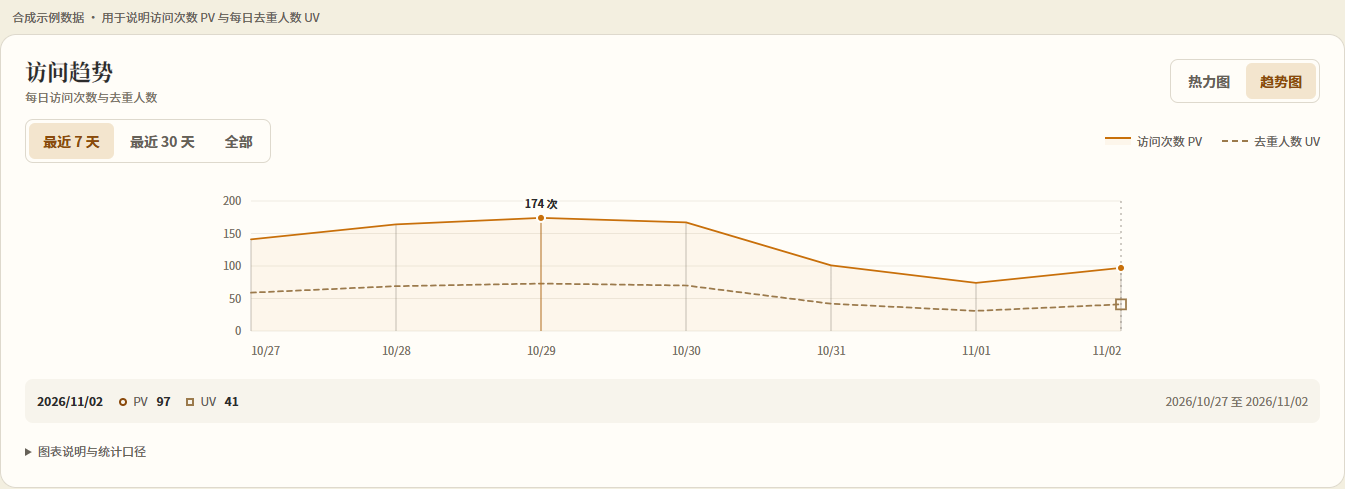
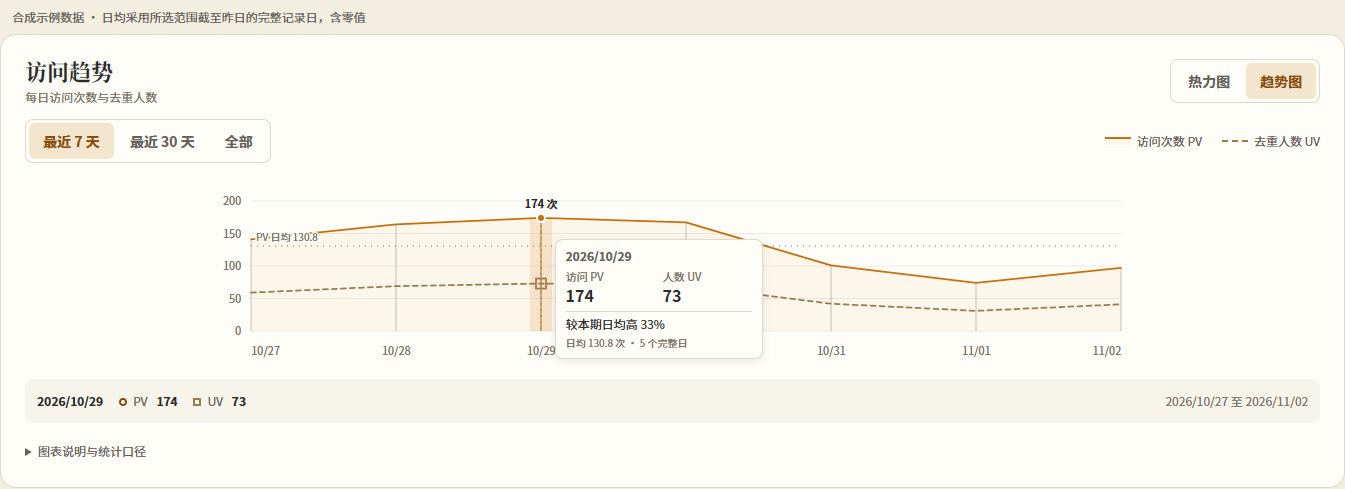
Show per-day visit comparisons and soften the calendar accents

diff --git a/src/app/admin/analytics/VisitTrend.tsx b/src/app/admin/analytics/VisitTrend.tsx
@@ -12,6 +12,7 @@ type Range = VisitTrend["range"];
 type LoadState = { phase: "loading" } | { phase: "ready"; report: VisitTrend } | { phase: "error"; message: string };
 const numberFormat = new Intl.NumberFormat("zh-CN");
 const compactNumber = new Intl.NumberFormat("zh-CN", { notation: "compact", maximumFractionDigits: 1 });
+const averageNumber = new Intl.NumberFormat("zh-CN", { maximumFractionDigits: 1 });
 const DAY = 86_400_000;
 const STATUSES = new Set(["available", "partial", "not_collected", "unavailable"]);
 const validCount = (value: unknown) => value === null || typeof value === "number" && Number.isSafeInteger(value) && value >= 0;
@@ -54,6 +55,23 @@ export function describeTrendValue(value: number | null, status: TrendDay["pvSta
   if (status === "unavailable") return "暂时无法读取";
   if (value === null || status === "not_collected") return "暂无完整记录";
   return numberFormat.format(value) + (status === "partial" ? "（部分记录）" : "");
+}
+
+export function trendDailyAverage(report: VisitTrend) {
+  const days = report.days.filter(day => day.date < report.endDate && day.pvStatus === "available" && day.pv !== null);
+  return { value: days.length ? days.reduce((sum, day) => sum + (day.pv ?? 0), 0) / days.length : null, samples: days.length };
+}
+
+export function compareTrendDay(day: TrendDay, endDate: string, average: number | null) {
+  const current = day.date === endDate ? "截至当前，" : "";
+  if (day.pv === null || day.pvStatus === "unavailable" || day.pvStatus === "not_collected") return "PV 暂无完整记录，暂不比较";
+  if (day.pvStatus === "partial" && day.date !== endDate) return "部分记录，暂不比较日均";
+  if (average === null) return current + "暂无完整历史日作为日均基准";
+  if (day.pv === average) return current + "与本期日均持平";
+  if (average === 0) return current + "高于本期日均 " + numberFormat.format(day.pv) + " 次（日均为 0）";
+  const difference = (day.pv - average) / average * 100;
+  const formatted = averageNumber.format(Math.abs(difference));
+  return current + (formatted === "0" ? "接近本期日均" : `较本期日均${difference > 0 ? "高" : "低"} ${formatted}%`);
 }
 
 function TrendRequest({ range, retry }: { range: Range; retry: () => void }) {
@@ -100,6 +118,9 @@ export function VisitLineChart({ report, retry }: { report: VisitTrend; retry?: 
   const frame = useRef<HTMLDivElement>(null);
   const [width, setWidth] = useState(800);
   const [selected, setSelected] = useState(report.days.length - 1);
+  const [inspecting, setInspecting] = useState(false);
+  const tooltip = useRef<HTMLDivElement>(null);
+  const [tooltipSize, setTooltipSize] = useState({ width: 208, height: 104 });
   const descriptionId = useId();
   useLayoutEffect(() => {
     const element = frame.current;
@@ -114,6 +135,26 @@ export function VisitLineChart({ report, retry }: { report: VisitTrend; retry?: 
     observer.observe(element);
     return () => observer.disconnect();
   }, []);
+  useLayoutEffect(() => {
+    if (!inspecting || !tooltip.current) return;
+    const bounds = tooltip.current.getBoundingClientRect();
+    if (bounds.width && bounds.height) setTooltipSize({ width: bounds.width, height: bounds.height });
+  }, [inspecting, selected, width]);
+  useEffect(() => {
+    if (!inspecting) return;
+    const dismissOutside = (event: globalThis.PointerEvent) => {
+      if (frame.current && !frame.current.contains(event.target as Node)) setInspecting(false);
+    };
+    const dismissEscape = (event: globalThis.KeyboardEvent) => {
+      if (event.key === "Escape" && !event.defaultPrevented) { event.preventDefault(); setInspecting(false); }
+    };
+    document.addEventListener("pointerdown", dismissOutside);
+    document.addEventListener("keydown", dismissEscape);
+    return () => {
+      document.removeEventListener("pointerdown", dismissOutside);
+      document.removeEventListener("keydown", dismissEscape);
+    };
+  }, [inspecting]);
   if (!report.days.length) return <>
     <div className={frameStyles.plot} data-visit-plot><p className={styles.state}>尚无访问采集记录，启用采集后可查看趋势。</p></div>
     <div className={frameStyles.readout} data-visit-readout><span className={frameStyles.readoutMeta}>每日 PV 与 UV · 北京时间</span></div>
@@ -133,17 +174,18 @@ export function VisitLineChart({ report, retry }: { report: VisitTrend; retry?: 
   const y = (value: number) => bottom - value / ceiling * (bottom - top);
   const day = report.days[Math.max(0, Math.min(selected, report.days.length - 1))];
   const currentIndex = report.days.indexOf(day);
-  const selectFromPointer = (event: PointerEvent<SVGSVGElement>) => {
+  const pointerIndex = (event: PointerEvent<SVGSVGElement>) => {
     const bounds = event.currentTarget.getBoundingClientRect();
     const position = (event.clientX - bounds.left) / bounds.width * width;
-    setSelected(Math.max(0, Math.min(report.days.length - 1, Math.round((position - left) / chartWidth * (report.days.length - 1)))));
+    return Math.max(0, Math.min(report.days.length - 1, Math.round((position - left) / chartWidth * (report.days.length - 1))));
   };
   const move = (event: KeyboardEvent<HTMLDivElement>) => {
+    if (event.key === "Escape") { event.preventDefault(); setInspecting(false); return; }
     const offsets: Record<string, number> = { ArrowLeft: -1, ArrowRight: 1, ArrowUp: -7, ArrowDown: 7 };
     if (event.key === "Home" || event.key === "End") {
-      event.preventDefault(); setSelected(event.key === "Home" ? 0 : report.days.length - 1);
+      event.preventDefault(); setSelected(event.key === "Home" ? 0 : report.days.length - 1); setInspecting(true);
     } else if (Object.hasOwn(offsets, event.key)) {
-      event.preventDefault(); setSelected(value => Math.max(0, Math.min(report.days.length - 1, value + offsets[event.key])));
+      event.preventDefault(); setSelected(value => Math.max(0, Math.min(report.days.length - 1, value + offsets[event.key]))); setInspecting(true);
     }
   };
   const tickCount = width < 480 ? 3 : report.days.length === 7 ? 7 : 5;
@@ -155,14 +197,31 @@ export function VisitLineChart({ report, retry }: { report: VisitTrend; retry?: 
   const peak = pvPoints.reduce<(typeof pvPoints)[number] | null>((best, point) => !best || point.value > best.value ? point : best, null);
   const showPeak = peak && peak.value > 0 && pvPoints.some(point => point.value < peak.value);
   const stemStep = Math.max(1, Math.ceil(report.days.length / Math.max(1, Math.floor(chartWidth / 9))));
+  const average = trendDailyAverage(report);
+  const comparison = compareTrendDay(day, report.endDate, average.value);
+  const dayHasPv = day.pv !== null && !["unavailable", "not_collected"].includes(day.pvStatus);
+  const barWidth = Math.max(.75, Math.min(22, chartWidth / Math.max(1, report.days.length - 1) * .65));
+  const tooltipWidth = Math.min(tooltipSize.width, width - 16);
+  const tooltipHeight = Math.min(tooltipSize.height, height - 16);
+  const side = x(currentIndex) < width / 2 ? x(currentIndex) + 14 : x(currentIndex) - tooltipWidth - 14;
+  const tooltipPosition = {
+    left: Math.max(8, Math.min(width - tooltipWidth - 8, side)),
+    top: height - tooltipHeight - 8,
+  };
   return <>
     <div className={frameStyles.plot} data-visit-plot>
     <div ref={frame} className={styles.chartFrame} role="group" tabIndex={0}
       aria-label="每日 PV 与 UV 趋势图，左右方向键逐日查看，Home 和 End 跳到首尾"
-      aria-describedby={descriptionId} onKeyDown={move}>
+      aria-describedby={descriptionId} onKeyDown={move} onFocus={() => setInspecting(true)}
+      onBlur={event => { if (!event.currentTarget.contains(event.relatedTarget)) setInspecting(false); }}
+      onPointerLeave={event => { if (event.pointerType !== "touch") setInspecting(false); }}>
       <svg viewBox={"0 0 " + width + " " + height} width="100%" height={height} role="img" aria-label="PV 浅琥珀面积与实线圆点、UV 虚线方点的每日访问趋势"
-        onPointerMove={event => { if (event.pointerType !== "touch" || event.buttons) selectFromPointer(event); }}
-        onPointerDown={event => { frame.current?.focus({ preventScroll: true }); selectFromPointer(event); }}>
+        onPointerMove={event => { if (event.pointerType !== "touch" || event.buttons) { setSelected(pointerIndex(event)); setInspecting(true); } }}
+        onPointerDown={event => {
+          const index = pointerIndex(event);
+          const open = event.pointerType === "touch" && index === currentIndex ? !inspecting : true;
+          frame.current?.focus({ preventScroll: true }); setSelected(index); setInspecting(open);
+        }}>
         {Array.from({ length: intervals + 1 }, (_, index) => {
           const value = tickStep * index;
           const axisY = y(value);
@@ -173,6 +232,8 @@ export function VisitLineChart({ report, retry }: { report: VisitTrend; retry?: 
         })}
         {ticks.map(index => <text key={index} x={x(index)} y={height - 12} className={styles.axisLabel}
           textAnchor={index === 0 ? "start" : index === report.days.length - 1 ? "end" : "middle"}>{(showYear ? report.days[index].date : report.days[index].date.slice(5)).replaceAll("-", "/")}</text>)}
+        {inspecting && dayHasPv && day.pv !== null && day.pv > 0 && <rect data-mark="pv-active-bar" className={styles.activeBar}
+          x={x(currentIndex) - barWidth / 2} y={y(day.pv)} width={barWidth} height={bottom - y(day.pv)} />}
         <g className={styles.pvArea} aria-hidden="true">
           {series[0].segments.filter(segment => segment.length > 1).map((segment, index) => <path key={index} data-mark="pv-area"
             d={`M${x(segment[0].index)},${bottom} L${segment.map(point => `${x(point.index)},${y(point.value)}`).join(" L")} L${x(segment[segment.length - 1].index)},${bottom} Z`} />)}
@@ -186,6 +247,10 @@ export function VisitLineChart({ report, retry }: { report: VisitTrend; retry?: 
               : <rect key={index} x={x(segment[0].index) - 3} y={y(segment[0].value) - 3} width={6} height={6} />
             : <path key={index} data-mark={metric + "-line"} d={segment.map((point, pointIndex) => (pointIndex ? "L" : "M") + x(point.index).toFixed(2) + "," + y(point.value).toFixed(2)).join(" ")} />)}
         </g>)}
+        {average.value !== null && <g className={styles.average} data-mark="pv-average" aria-hidden="true">
+          <line x1={left} x2={width - right} y1={y(average.value)} y2={y(average.value)} />
+          <text x={left + 5} y={y(average.value) + (showPeak && x(peak.index) < left + 100 && Math.abs(y(peak.value) - y(average.value)) < 22 ? 13 : -5)}>PV 日均 {averageNumber.format(average.value)}</text>
+        </g>}
         {showPeak && <g className={styles.peak} data-mark="pv-peak">
           <title>{`${report.days[peak.index].date} · 已记录最高 ${numberFormat.format(peak.value)} 次访问`}</title>
           <line x1={x(peak.index)} x2={x(peak.index)} y1={y(peak.value)} y2={bottom} />
@@ -197,6 +262,24 @@ export function VisitLineChart({ report, retry }: { report: VisitTrend; retry?: 
         {day.pv !== null && !["unavailable", "not_collected"].includes(day.pvStatus) && <circle className={styles.pvPoint} cx={x(currentIndex)} cy={y(day.pv)} r={4} />}
         {day.uv !== null && !["unavailable", "not_collected"].includes(day.uvStatus) && <rect className={styles.uvPoint} x={x(currentIndex) - 5} y={y(day.uv) - 5} width={10} height={10} />}
       </svg>
+      {inspecting && <div ref={tooltip} data-visit-tooltip
+        data-wide-values={numberFormat.format(Math.max(day.pv ?? 0, day.uv ?? 0)).length > 12 || undefined}
+        className={styles.tooltip} style={tooltipPosition} aria-hidden="true">
+        <strong className={styles.tooltipHeading}>{day.date.replaceAll("-", "/")}</strong>
+        <dl className={styles.tooltipValues}>
+          {(["pv", "uv"] as const).map(metric => {
+            const value = day[metric];
+            const status = metric === "pv" ? day.pvStatus : day.uvStatus;
+            const known = value !== null && (status === "available" || status === "partial");
+            return <div key={metric}>
+              <dt>{metric === "pv" ? "访问 PV" : "人数 UV"}</dt>
+              <dd>{known ? <><b>{numberFormat.format(value)}</b>{status === "partial" && <span>部分记录</span>}</> : describeTrendValue(value, status)}</dd>
+            </div>;
+          })}
+        </dl>
+        <p>{comparison}</p>
+        {average.value !== null && <small>日均 {averageNumber.format(average.value)} 次 · {average.samples} 个完整日</small>}
+      </div>}
     </div>
     </div>
     <div id={descriptionId} className={frameStyles.readout} data-visit-readout aria-live="polite" aria-atomic="true">
@@ -208,7 +291,7 @@ export function VisitLineChart({ report, retry }: { report: VisitTrend; retry?: 
         {retry && report.days.some(item => item.pvStatus === "unavailable" || item.uvStatus === "unavailable") &&
           <button type="button" className={styles.retry} onClick={retry} aria-label="重新加载趋势" title="部分日期无法读取，重新加载趋势">重试</button>}
       </span>
-      <span className={styles.visuallyHidden}>悬停或点按查看日期，键盘方向键可逐日切换。{missing && " 缺少完整记录的日期留空。"}{partial && " 部分记录已在日期明细中标注。"}</span>
+      <span className={styles.visuallyHidden}>{comparison}。{average.value !== null && `本期日均 ${averageNumber.format(average.value)} 次，依据 ${average.samples} 个完整记录日，排除今天和部分记录。`}悬停或点按查看日期，键盘方向键可逐日切换，Escape 关闭浮层。{missing && " 缺少完整记录的日期留空。"}{partial && " 部分记录已在日期明细中标注。"}</span>
     </div>
   </>;
 }

diff --git a/src/app/admin/analytics/visit-trend-ui.test.tsx b/src/app/admin/analytics/visit-trend-ui.test.tsx
@@ -3,7 +3,7 @@ import { describe, expect, it } from "vitest";
 import type { VisitTrend } from "@/modules/analytics/visit-trend";
 import { VisitActivity } from "./VisitActivity";
 import { heatmapLevel, heatmapScale, VisitHeatmap } from "./VisitHeatmap";
-import { describeTrendValue, readTrendResponse, trendSegments, VisitLineChart, VisitTrendPanel } from "./VisitTrend";
+import { compareTrendDay, describeTrendValue, readTrendResponse, trendDailyAverage, trendSegments, VisitLineChart, VisitTrendPanel } from "./VisitTrend";
 
 const report: VisitTrend = {
   range: "7", startDate: "2026-10-27", endDate: "2026-10-31",
@@ -65,6 +65,40 @@ describe("visit trend chart", () => {
     expect(html).toContain('data-mark="pv-peak"');
     expect(html).toContain("已记录最高 4");
     expect(html).toMatch(/<rect[^>]*width="10"[^>]*height="10"/);
+    expect(html).not.toContain("data-visit-tooltip");
+    expect(html).not.toContain('data-mark="pv-active-bar"');
+    expect(html).toContain('data-mark="pv-average"');
+    expect(html).toContain("PV 日均 2");
+    expect(html).toContain("截至当前，较本期日均高 50%");
+  });
+
+  it("computes the daily baseline from complete earlier dates including measured zero", () => {
+    expect(trendDailyAverage(report)).toEqual({ value: 2, samples: 3 });
+    const days = report.days.map(day => ({ ...day, pvStatus: "partial" as const }));
+    expect(trendDailyAverage({ ...report, days })).toEqual({ value: null, samples: 0 });
+    expect(trendDailyAverage({ ...report, days: [{ ...report.days[4], pv: 999, pvStatus: "available" }] })).toEqual({ value: null, samples: 0 });
+    const withNull = [{ ...report.days[0], pv: null }, report.days[1], report.days[4]];
+    expect(trendDailyAverage({ ...report, days: withNull })).toEqual({ value: 0, samples: 1 });
+  });
+
+  it("compares current partial values but avoids historical partial, missing and zero-baseline percentages", () => {
+    expect(compareTrendDay(report.days[4], report.endDate, 2)).toBe("截至当前，较本期日均高 50%");
+    expect(compareTrendDay({ ...report.days[0], pvStatus: "partial" }, report.endDate, 2)).toBe("部分记录，暂不比较日均");
+    expect(compareTrendDay(report.days[3], report.endDate, 2)).toBe("PV 暂无完整记录，暂不比较");
+    expect(compareTrendDay(report.days[4], report.endDate, 0)).toBe("截至当前，高于本期日均 3 次（日均为 0）");
+    expect(compareTrendDay({ ...report.days[4], pv: 0 }, report.endDate, 0)).toBe("截至当前，与本期日均持平");
+    expect(compareTrendDay(report.days[4], report.endDate, null)).toBe("截至当前，暂无完整历史日作为日均基准");
+    expect(compareTrendDay(report.days[4], report.endDate, 7 / 3)).toBe("截至当前，较本期日均高 28.6%");
+  });
+
+  it("omits the average line without complete earlier samples and does not invent a percent at zero", () => {
+    const single = renderToStaticMarkup(<VisitLineChart report={{ ...report, startDate: report.endDate, days: [report.days[4]] }} />);
+    expect(single).not.toContain('data-mark="pv-average"');
+    expect(single).toContain("暂无完整历史日作为日均基准");
+    const zero = renderToStaticMarkup(<VisitLineChart report={{ ...report, days: [report.days[1], report.days[4]] }} />);
+    expect(zero).toContain("PV 日均 0");
+    expect(zero).toContain("日均为 0");
+    expect(zero).not.toMatch(/日均[^<。]*%/);
   });
 
   it("closes each PV area at zero without spanning missing days or filling UV", () => {

diff --git a/src/app/admin/analytics/trend-area.module.css b/src/app/admin/analytics/trend-area.module.css
@@ -1,10 +1,11 @@
-.chartFrame { width: 100%; height: 100%; min-width: 0; border-radius: .375rem; }
+.chartFrame { position: relative; width: 100%; height: 100%; min-width: 0; border-radius: .375rem; }
 .chartFrame:focus-visible { outline: 2px solid var(--color-primary); outline-offset: 3px; }
 .chartFrame svg { display: block; width: 100%; height: 100%; overflow: hidden; touch-action: pan-y; }
 .axis line { stroke: var(--color-line); stroke-width: 1; opacity: .5; }
 .axis text, .axisLabel { fill: var(--color-muted); font-family: inherit; font-size: 11px; font-variant-numeric: tabular-nums; }
 .pvArea { fill: var(--visit-pv-fill); }
 .pvStems { stroke: var(--color-muted); stroke-width: 1; opacity: .42; }
+.activeBar { fill: var(--visit-pv-stroke); opacity: .15; }
 .pvLine, .uvLine { fill: none; stroke: var(--visit-pv-stroke); stroke-width: 1.75; stroke-linecap: round; stroke-linejoin: round; }
 .uvLine { stroke: var(--color-brass); stroke-dasharray: 5 4; }
 .pvLine circle { fill: var(--visit-pv-stroke); stroke: var(--color-surface); stroke-width: 1; }
@@ -14,6 +15,21 @@
 .uvPoint { fill: none; stroke: var(--color-brass); stroke-width: 1.75; }
 .peak line { stroke: var(--visit-pv-stroke); stroke-width: 1; opacity: .75; }
 .peak text { fill: var(--color-ink); font-family: inherit; font-size: 11px; font-weight: var(--weight-bold); paint-order: stroke; stroke: var(--color-surface); stroke-width: 4px; stroke-linejoin: round; }
+.average line { stroke: var(--color-muted); stroke-width: 1; stroke-dasharray: 1 5; }
+.average text { fill: var(--color-muted); font-family: inherit; font-size: 10px; paint-order: stroke; stroke: var(--color-surface); stroke-width: 3px; }
+.tooltip { position: absolute; z-index: 2; box-sizing: border-box; width: min(13rem, calc(100% - 1rem)); max-height: calc(100% - 1rem); overflow: hidden; padding: .5rem .625rem; border: 1px solid var(--color-line); border-radius: .5rem; background: var(--color-surface); color: var(--color-ink); box-shadow: 0 2px 8px color-mix(in srgb, var(--color-ink) 10%, transparent); font-size: 12px; line-height: 1.4; font-variant-numeric: tabular-nums; pointer-events: none; }
+.tooltipHeading { display: block; color: var(--color-ink-soft); font-size: 12px; }
+.tooltipValues { display: grid; grid-template-columns: repeat(2, minmax(0, 1fr)); gap: .5rem; margin: .25rem 0; }
+.tooltipValues div { min-width: 0; }
+.tooltipValues dt { color: var(--color-muted); font-size: 11px; }
+.tooltipValues dd { margin: 0; }
+.tooltipValues dd b { display: block; font-size: 1rem; font-weight: var(--weight-bold); line-height: 1.25; overflow-wrap: anywhere; }
+.tooltipValues dd span { display: block; font-size: 11px; color: var(--color-muted); }
+.tooltip[data-wide-values] .tooltipValues { grid-template-columns: 1fr; gap: .125rem; }
+.tooltip[data-wide-values] .tooltipValues div { display: flex; align-items: baseline; gap: .25rem; }
+.tooltip[data-wide-values] .tooltipValues dd b { font-size: 12px; }
+.tooltip p { margin: .375rem 0 0; padding-top: .25rem; border-top: 1px solid var(--color-line); }
+.tooltip small { display: block; margin-top: .25rem; color: var(--color-muted); font-size: 10px; }
 .pvReadout, .uvReadout { white-space: nowrap; font-variant-numeric: tabular-nums; }
 .pvReadout b, .uvReadout b { margin-left: .375rem; }
 .pvReadout::before, .uvReadout::before { content: ""; display: inline-block; width: .5rem; height: .5rem; margin-right: .375rem; border: 2px solid var(--color-primary-deep); border-radius: 50%; }

diff --git a/src/app/admin/platform-admin.module.css b/src/app/admin/platform-admin.module.css
@@ -36,8 +36,8 @@
 .calendarDay[data-level="zero"]::before, .legendSquare[data-level="zero"] { border-color: var(--color-line); }
 .calendarDay[data-level="1"], .legendSquare[data-level="1"] { --cell-fill: color-mix(in srgb, var(--calendar-apricot) 50%, var(--color-surface)); }
 .calendarDay[data-level="2"], .legendSquare[data-level="2"] { --cell-fill: var(--calendar-apricot); }
-.calendarDay[data-level="3"], .legendSquare[data-level="3"] { --cell-fill: #e7a03f; }
-.calendarDay[data-level="4"], .legendSquare[data-level="4"] { --cell-fill: var(--lh-classic-amber); }
+.calendarDay[data-level="3"], .legendSquare[data-level="3"] { --cell-fill: color-mix(in oklab, #e7a03f 86%, #aeaeae); }
+.calendarDay[data-level="4"], .legendSquare[data-level="4"] { --cell-fill: color-mix(in oklab, var(--lh-classic-amber) 86%, #919191); }
 .calendarDay[data-level="unknown"]::before, .legendSquare[data-level="unknown"] { border: 1px dashed var(--color-line); background: repeating-linear-gradient(135deg, var(--color-line) 0 2px, var(--color-surface) 2px 6px); }
 .calendarLegend { display: flex; flex-wrap: wrap; align-items: center; gap: .375rem .75rem; color: var(--color-ink-soft); font-size: .6875rem; }
 .legendItem { display: inline-flex; align-items: center; gap: .25rem; white-space: nowrap; }

diff --git a/src/app/admin/analytics/VisitActivity.tsx b/src/app/admin/analytics/VisitActivity.tsx
@@ -52,6 +52,7 @@ export function VisitActivity({ heatmap }: { heatmap: UsageReport["heatmap"] }) 
       <summary>图表说明与统计口径</summary>
       <p>日期按北京时间统计。点按图表可查看当日读数。日历用上下键逐日、左右键逐周查看，趋势图用左右键逐日查看。</p>
       <HeatmapNotes heatmap={heatmap} />
+      <p>趋势图的日均线取所选范围内截至昨天、PV 记录完整的日期计算。零次访问计入平均。今天显示截至当前的访问次数。</p>
       <p>趋势图的 PV 为每天的访问次数，UV 按每天的员工账号和访客标识分别去重。每日 UV 相加不能用于计算时段去重人数。「全部」显示开始采集以来、最近 24 个月内的记录。缺少数据的日期留空，部分记录会在当日读数中注明。</p>
     </details>
   </section>;

diff --git a/docs/design/patterns.md b/docs/design/patterns.md
@@ -312,9 +312,11 @@ The access calendar and PV/UV trend share a chart card. Use the same slots in bo
 
 Keep the view switch mounted and focusable. Preserve the chosen range, day and calendar position when returning to a view. A switch or range request must leave the following report in place. Check at desktop, tablet and phone sizes, including delayed and failed chart requests.
 
-For the calendar, use soft paper and apricot tones for the two lower positive ranges, then orange-gold and the brand's classic amber for the two higher ranges. Use the same fills in the legend and cells. Give zero a quiet neutral fill and missing dates a diagonal hatch. A selected date has a light and dark inset edge that remains visible at either end of the scale. Check the steps at both the 14px desktop and 12px phone cell sizes.
+For the calendar, use soft paper and apricot tones for the two lower positive ranges. For the higher ranges, soften orange-gold and classic amber with 14% neutral gray at similar lightness. Use the same fills in the legend and cells. Give zero a quiet neutral fill and missing dates a diagonal hatch. A selected date has a light and dark inset edge that remains visible at either end of the scale. Check the steps at both the 14px desktop and 12px phone cell sizes.
 
 Use independent series on a shared zero-based count scale for daily PV and UV. Draw an amber PV outline over light daily stems with a faint fill to the baseline. On long ranges, thin the stems to fit the available width while retaining every observed value in the outline. Highlight the recorded peak with an amber stem and its count. Distinguish UV by its dash pattern and square selection marker. Show missing dates as gaps and measured zeros on the baseline.
+
+Label the PV average directly on its horizontal reference line. On hover, tap or keyboard navigation, highlight the selected day and show its two counts and PV comparison in a compact tooltip. Keep the tooltip inside the plot near either end of the time axis and out of the card's layout flow.
 
 ## Forms
 

diff --git a/docs/platform-management.md b/docs/platform-management.md
@@ -19,6 +19,8 @@
 - **热力图**（默认）覆盖近 365 天，每个正方形小格代表一天。图例按实际单日最高值标出各色阶的访问次数范围。零次和没有数据分别显示；可点按或用方向键逐日读取。默认字号下桌面方块为 14 × 14 px，手机为 12 × 12 px，行列间距均为 3 px。
 - **趋势图**用琥珀色轮廓和细日柱表示每日访问次数（PV），用虚线表示每日去重访问人数（UV）。高亮日柱上方标出期间已记录的最高访问次数。两条序列共用零刻度，各自缺失的日期断开，有记录但无人访问的日期显示 0。可选最近 7 天、最近 30 天（都含今天），或全部采集日期（最多 24 个月）。同一员工一天访问三个模块，计 3 次 PV、1 个 UV，次日再来，次日的 UV 再计 1。时段去重人数请看下方报表。
 
+在趋势图上悬停、点按或用方向键选择日期，可以查看当天的 PV、UV 和访问次数较日均的变化。日均线按所选范围内截至昨天、PV 记录完整的日期计算，包含零访问日。今天显示截至当前的读数。历史日期只有部分记录、没有完整样本或日均为零时，不计算变化百分比。
+
 两种视图共用标题、工具栏、绘图区和日期读数栏。来回切换会保留各自选中的日期以及趋势图范围。下方「图表说明与统计口径」可展开查看键盘操作和采集说明。[查看最近 7 天的趋势图示例（演示数据）](analytics-examples/pv-uv-trend.png)
 
 下方报表独立选择本周（周一至今）、本月或自定义的起止日期，两端均计入。访问规模与 AI 使用分组显示。模块条长表示占本期已记录总 PV 的比例，部门榜条长则相对于上榜部门的最高访问次数，两处均提供确切次数。
